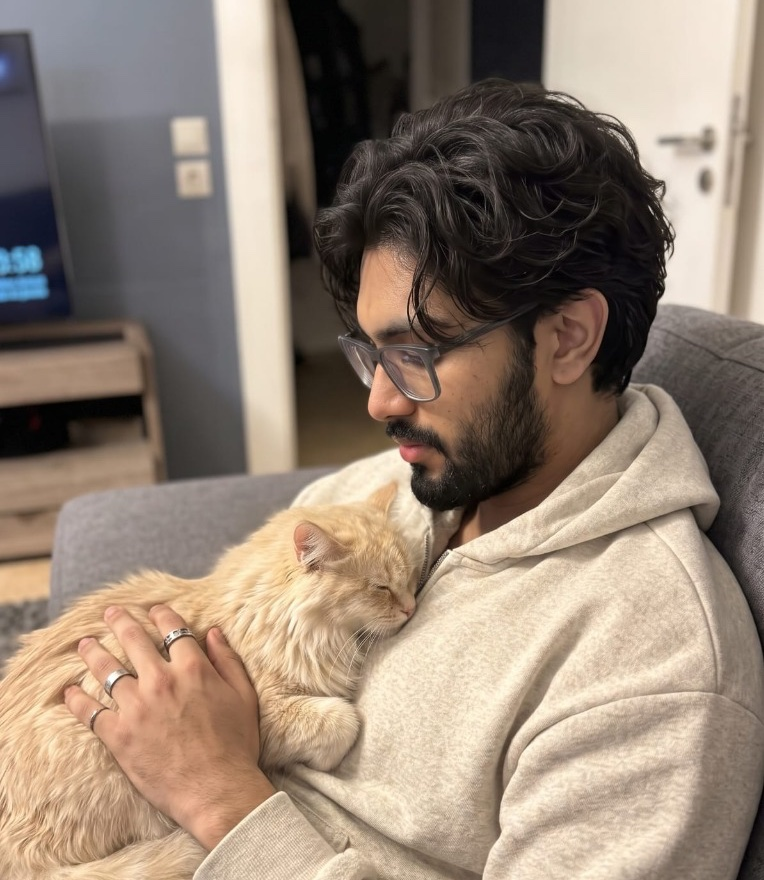
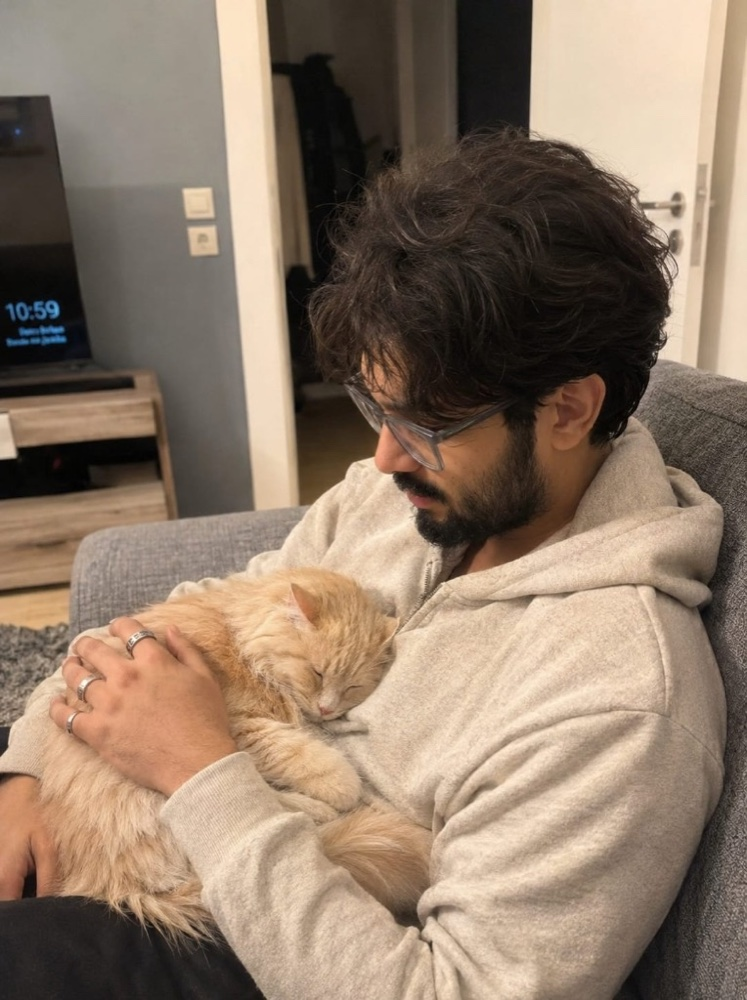
Add GPTease ConvoRealism Benchmark project and update main hero portrait

diff --git a/src/data/projects.ts b/src/data/projects.ts
@@ -3,6 +3,7 @@ export type ProjectIllustrationType =
   | "speech-dubbing"
   | "multi-agent-rag"
   | "diarizbench"
+  | "gptease-benchmark"
   | "agent-lab";
 
 export interface ProjectMetric {
@@ -400,8 +401,101 @@ export const PROJECTS: Project[] = [
     ],
   },
   {
-    slug: "agent-lab",
+    slug: "gptease-benchmark",
     index: "05",
+    title: "GPTease ConvoRealism Benchmark",
+    period: "2026",
+    category: "LLM EVALUATION / BENCHMARKING",
+    shortDescription:
+      "Open-source 15-dimension conversational realism benchmark across 7 LLMs with hybrid judge routing, realism ceilings, and multiplicative penalty cascades.",
+    tags: ["Python", "Asyncio", "LLM-as-Judge", "Pydantic"],
+    stack: [
+      "Python",
+      "Asyncio",
+      "Pydantic",
+      "Typer",
+      "OpenRouter",
+      "Together AI",
+      "Featherless",
+      "Tenacity",
+      "YAML Config",
+    ],
+    illustration: "gptease-benchmark",
+    githubUrl: "https://github.com/ayushk1233/gptease-benchmark",
+    highlightStat: "7 models · 15 dims · +6.81 bias found",
+    problem:
+      "Standard LLM benchmarks measure coding, math, and MMLU recall—not whether a model sounds like a real person in emotionally nuanced conversation. Naive LLM judges also reward verbose, theatrical prose over authentic dialogue and suffer from unmeasured self-preference bias.",
+    solution:
+      "Built ConvoRealism for the GPTease platform: a modular, YAML-driven async evaluation pipeline scoring 7 open-source LLMs across 15 dimensions (rule-based detectors, structural/lexical heuristics, and hybrid-routed LLM judges), combining a Realism Ceiling with multiplicative penalty cascades onto a normalized 20–100 leaderboard scale.",
+    architecture: {
+      overview:
+        "Externalized YAML configs drive multi-provider async generation, 3-tier hybrid evaluation, response-hash judge caching, and cascading score aggregation into JSON, Markdown, and CSV reports.",
+      stages: [
+        {
+          step: "01",
+          name: "Multi-Turn Prompt Builder & Classifier",
+          detail:
+            "Loads multi-turn JSONL prompts, strips generation markers to prevent payload leakage, and classifies prompt genres to set context-appropriate length windows.",
+        },
+        {
+          step: "02",
+          name: "Async Multi-Provider Inference Engine",
+          detail:
+            "Dispatches semaphore-throttled calls across OpenRouter, Together AI, and Featherless with exponential backoff, EMPTY_STOP failure caching, and full payload diagnostics.",
+        },
+        {
+          step: "03",
+          name: "15-Dimension Hybrid Evaluator Stack",
+          detail:
+            "Combines deterministic rule-based detectors (refusal, repetition, AI signature, immersion break), lexical heuristics (entropy, verbosity, cringe), and cross-routed LLM judges.",
+        },
+        {
+          step: "04",
+          name: "Realism Ceiling, Penalty Cascade & Reports",
+          detail:
+            "Caps prose quality when conversational naturalness or dynamic reactivity drops below 3.0, cascades multiplicative failure penalties, and exports normalized 20–100 leaderboards.",
+        },
+      ],
+    },
+    engineeringDecisions: [
+      {
+        title: "Realism Ceiling Over Prose Density",
+        detail:
+          "Elevated conversational_naturalness (12%), dynamic_reactivity (12%), and anti_ai_tone (11%) to dominant weights and gated prose dimensions behind them—preventing theatrical RP monologues from outranking authentic human-like replies.",
+      },
+      {
+        title: "Cross-Model Hybrid Judge Routing",
+        detail:
+          "Empirically measured +6.81 points of self-preference inflation when DeepSeek-V4-Pro judged itself (86.87 vs 80.06 under neutral Kimi-K2.6), leading to per-model judge routing overrides and strict JSON judge hardening.",
+      },
+      {
+        title: "Cost & Failure Isolation in Evaluation",
+        detail:
+          "Cached judge evaluations by (response_hash, judge_model_id, scoring_config_hash) and excluded EMPTY_STOP generations from leaderboard averages—completing 5 runs and 200+ evaluations for ~$3.50 total spend.",
+      },
+    ],
+    tradeoffs: [
+      {
+        title: "Neutral Judge Selection vs. Content Filters",
+        detail:
+          "Standard neutral judges refuse explicit evaluation prompts while self-judging inflates scores by +6.81 points; cross-routing open/frontier judges mitigates bias until a human-annotated domain judge is trained.",
+      },
+      {
+        title: "Sequential Multi-Dimension Judging vs. Throughput",
+        detail:
+          "Running 8+ LLM-judge calls per response makes judge API calls ~96% of total spend and bounds throughput via semaphore throttling, traded intentionally for granular per-dimension diagnostics.",
+      },
+    ],
+    verifiedResults: [
+      { value: "84.21", label: "Top score — Kimi-K2.6 (25/25 completions, 9.9s avg)" },
+      { value: "+6.81 pts", label: "Measured LLM-judge self-preference bias (DeepSeek)" },
+      { value: "80.71 / 8B", label: "Lunaris-8B outscored Euryale-70B (78.45) at 19× lower cost" },
+      { value: "200+ Evals", label: "7 models · 15 dimensions · 5 runs · ~$3.50 total spend" },
+    ],
+  },
+  {
+    slug: "agent-lab",
+    index: "06",
     title: "AgentLab (Agent Reliability Lab)",
     period: "Coming Soon · V1 Roadmap",
     category: "AGENTIC EVALS / COMING SOON",

diff --git a/src/components/ProjectIllustration.tsx b/src/components/ProjectIllustration.tsx
@@ -185,6 +185,66 @@ export function ProjectIllustration({
     );
   }
 
+  if (type === "gptease-benchmark") {
+    return (
+      <svg
+        viewBox="0 0 380 200"
+        className={`h-full w-full ${className}`}
+        fill="none"
+        xmlns="http://www.w3.org/2000/svg"
+        role="img"
+        aria-label="15-dimension hybrid evaluation and leaderboard diagram for GPTease ConvoRealism Benchmark"
+      >
+        {/* Left: 3-tier Evaluator Stack */}
+        <rect x="18" y="20" width="124" height="36" fill="#EFEFEA" stroke="#292929" strokeWidth="1.25" />
+        <text x="26" y="34" fontFamily="var(--font-geist-mono), monospace" fontSize="7" fill="#626262">TIER 01 // RULE-BASED</text>
+        <text x="26" y="48" fontFamily="var(--font-geist-mono), monospace" fontSize="8.5" fontWeight="700" fill="#171717">REFUSAL · AI-TELLS</text>
+
+        <rect x="18" y="64" width="124" height="36" fill="#EFEFEA" stroke="#292929" strokeWidth="1.25" />
+        <text x="26" y="78" fontFamily="var(--font-geist-mono), monospace" fontSize="7" fill="#626262">TIER 02 // HEURISTIC</text>
+        <text x="26" y="92" fontFamily="var(--font-geist-mono), monospace" fontSize="8.5" fontWeight="700" fill="#171717">ENTROPY · VERBOSITY</text>
+
+        <rect x="18" y="108" width="124" height="44" fill="#171717" stroke="#292929" strokeWidth="1.5" />
+        <text x="26" y="122" fontFamily="var(--font-geist-mono), monospace" fontSize="7" fill="#C7FF35">TIER 03 // CROSS-JUDGE</text>
+        <text x="26" y="136" fontFamily="var(--font-geist-mono), monospace" fontSize="8.5" fontWeight="700" fill="#F8F7F2">REALISM · REACTIVITY</text>
+        <text x="26" y="146" fontFamily="var(--font-geist-mono), monospace" fontSize="6.8" fill="#EFEFEA">AVOID SELF-BIAS (+6.81)</text>
+
+        {/* Connectors to Leaderboard */}
+        <path d="M142 38 H162 V84 H178" stroke="#292929" strokeWidth="1.25" />
+        <path d="M142 82 H178" stroke="#292929" strokeWidth="1.25" />
+        <path d="M142 130 H162 V84" stroke="#292929" strokeWidth="1.25" />
+
+        {/* Right: Realism Ceiling + Leaderboard */}
+        <rect x="178" y="20" width="184" height="34" fill="#C7FF35" stroke="#292929" strokeWidth="1.5" />
+        <text x="186" y="34" fontFamily="var(--font-geist-mono), monospace" fontSize="7.5" fontWeight="700" fill="#171717">REALISM CEILING + PENALTY</text>
+        <text x="186" y="46" fontFamily="var(--font-geist-mono), monospace" fontSize="7.5" fill="#171717">15 DIMS → [20–100] SCALE</text>
+
+        <rect x="178" y="64" width="184" height="88" fill="#F8F7F2" stroke="#292929" strokeWidth="1.5" />
+        <text x="186" y="79" fontFamily="var(--font-geist-mono), monospace" fontSize="7.5" fontWeight="700" fill="#171717">7-MODEL LEADERBOARD (200+ EVALS)</text>
+
+        <text x="186" y="96" fontFamily="var(--font-geist-mono), monospace" fontSize="7.5" fill="#171717">KIMI-K2.6</text>
+        <rect x="246" y="88" width="76" height="9" fill="#C7FF35" stroke="#292929" strokeWidth="1" />
+        <text x="328" y="96" fontFamily="var(--font-geist-mono), monospace" fontSize="7.5" fontWeight="700" fill="#171717">84.2</text>
+
+        <text x="186" y="112" fontFamily="var(--font-geist-mono), monospace" fontSize="7.5" fill="#171717">LUNARIS-8B</text>
+        <rect x="246" y="104" width="70" height="9" fill="#171717" />
+        <text x="328" y="112" fontFamily="var(--font-geist-mono), monospace" fontSize="7.5" fill="#171717">80.7</text>
+
+        <text x="186" y="128" fontFamily="var(--font-geist-mono), monospace" fontSize="7.5" fill="#626262">CYDONIA-24B</text>
+        <rect x="246" y="120" width="66" height="9" fill="#626262" />
+        <text x="328" y="128" fontFamily="var(--font-geist-mono), monospace" fontSize="7.5" fill="#171717">79.6</text>
+
+        <text x="186" y="144" fontFamily="var(--font-geist-mono), monospace" fontSize="7.5" fill="#626262">EURYALE-70B</text>
+        <rect x="246" y="136" width="63" height="9" fill="#626262" />
+        <text x="328" y="144" fontFamily="var(--font-geist-mono), monospace" fontSize="7.5" fill="#171717">78.5</text>
+
+        <line x1="18" y1="168" x2="362" y2="168" stroke="#292929" strokeWidth="1" />
+        <text x="18" y="184" fontFamily="var(--font-geist-mono), monospace" fontSize="8.5" fill="#626262">OPENROUTER · TOGETHER · FEATHERLESS</text>
+        <text x="362" y="184" textAnchor="end" fontFamily="var(--font-geist-mono), monospace" fontSize="8.5" fontWeight="600" fill="#171717">~$3.50 TOTAL</text>
+      </svg>
+    );
+  }
+
   if (type === "agent-lab") {
     return (
       <svg

diff --git a/src/components/GeometricHeroArt.tsx b/src/components/GeometricHeroArt.tsx
@@ -44,9 +44,9 @@ export function GeometricHeroArt() {
             <img
               src={portraitSrc}
               alt="Ayush Kumar — AI/ML Engineer"
-              width={764}
-              height={880}
-              className="h-full w-full object-cover object-top contrast-[1.03] saturate-[0.9] transition-all duration-300 hover:saturate-100"
+              width={747}
+              height={1000}
+              className="h-full w-full object-cover object-[50%_20%] contrast-[1.03] saturate-[0.9] transition-all duration-300 hover:saturate-100"
               loading="eager"
               decoding="async"
             />

diff --git a/src/app/projects/page.tsx b/src/app/projects/page.tsx
@@ -25,7 +25,7 @@ export default function ProjectsPage() {
               index="01"
               label="/ SELECTED WORK"
               title="Systems built & measured in production."
-              aside="5 SYSTEMS · 4 SHIPPED · 1 COMING SOON"
+              aside="6 SYSTEMS · 5 SHIPPED · 1 COMING SOON"
             />
           </div>
 

diff --git a/src/app/page.tsx b/src/app/page.tsx
@@ -12,7 +12,7 @@ const DIRECTORY_LINKS = [
     index: "01",
     label: "PROJECTS",
     title: "Selected Work & Case Studies",
-    detail: "Architecture, tradeoffs, and results across 5 AI/ML systems.",
+    detail: "Architecture, tradeoffs, and results across 6 AI/ML systems.",
     href: "/projects",
   },
   {
